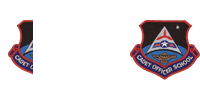
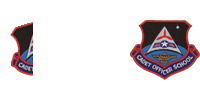
Apply OCP sleeve coordinates and rotation

Changed region(s): [[0.03, 0.18, 0.18, 0.78]]

diff --git a/ocp-patch-variants.js b/ocp-patch-variants.js
@@ -41,6 +41,20 @@
     if(!patchList.includes(variantId)) patchList.push(variantId);
   }
 
+  // Imported from CAPUB_coordinates_1785957149681.json (2026-08-05).
+  // The uploaded PJOC calibration defines the OCP male left-sleeve location;
+  // apply that same higher-headquarters/activity-patch anchor to every OCP
+  // variant whose authorized slot is the left shoulder. Chest patches retain
+  // their existing, independently calibrated chest anchors.
+  const ocpMaleHigherHeadquartersLocation = {x:690, y:212, w:200, h:100, r:0};
+  DEFAULT_CALIBRATION_BY_UNIFORM.ocp_male ||= {};
+  for(const variantId of variantIds){
+    if(PATCH_META[variantId]?.slotHint !== 'L_SHOULDER') continue;
+    DEFAULT_CALIBRATION_BY_UNIFORM.ocp_male[`patch:${variantId}:L_SHOULDER:0`] = {
+      ...ocpMaleHigherHeadquartersLocation
+    };
+  }
+
   const previousResolver = window.capubResolvePatchIdForUniform;
   window.capubResolvePatchIdForUniform = function(patchId, uniformId = State.uniform){
     if(uniformKey(uniformId) === 'ocp') return variants[patchId] || patchId;
